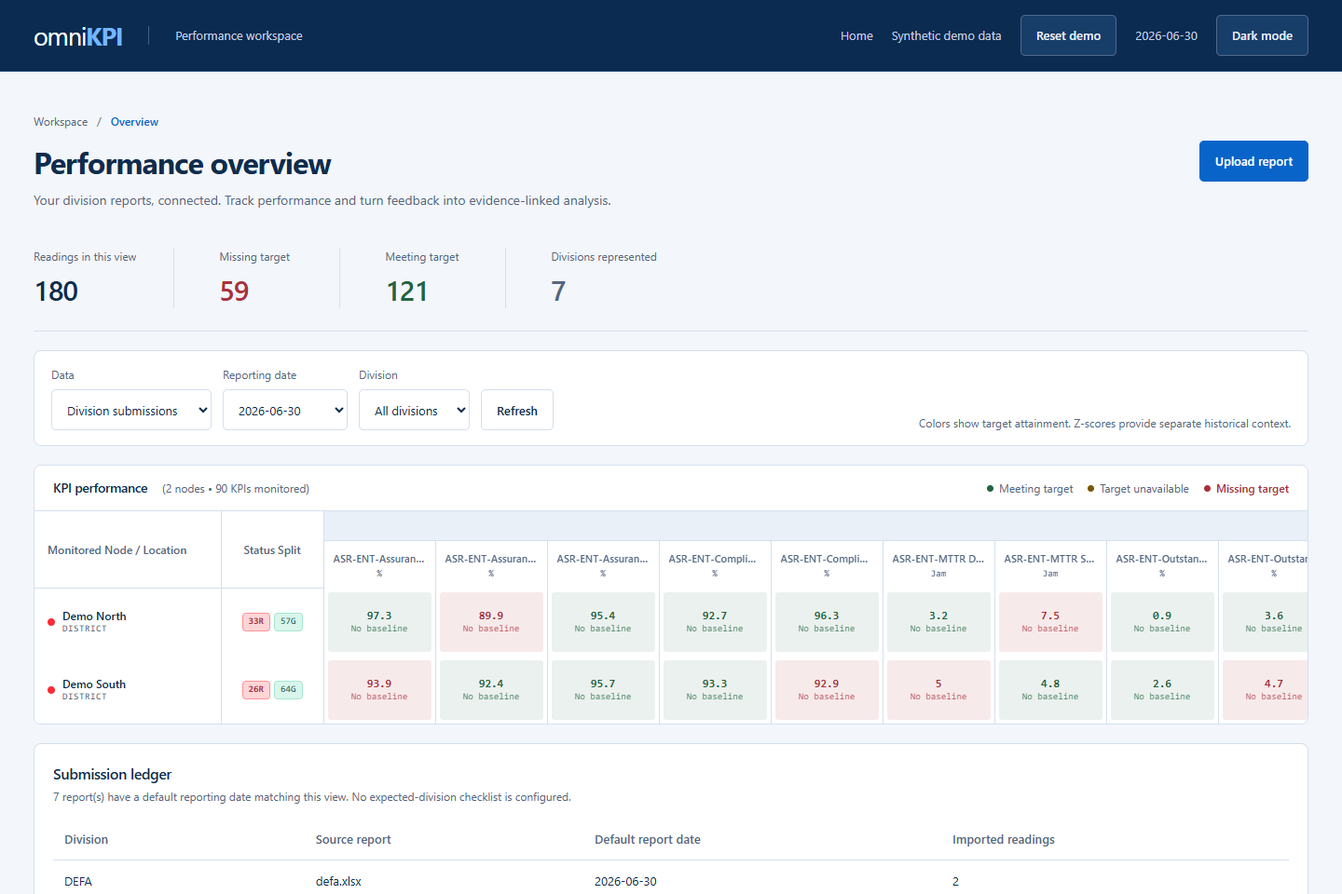
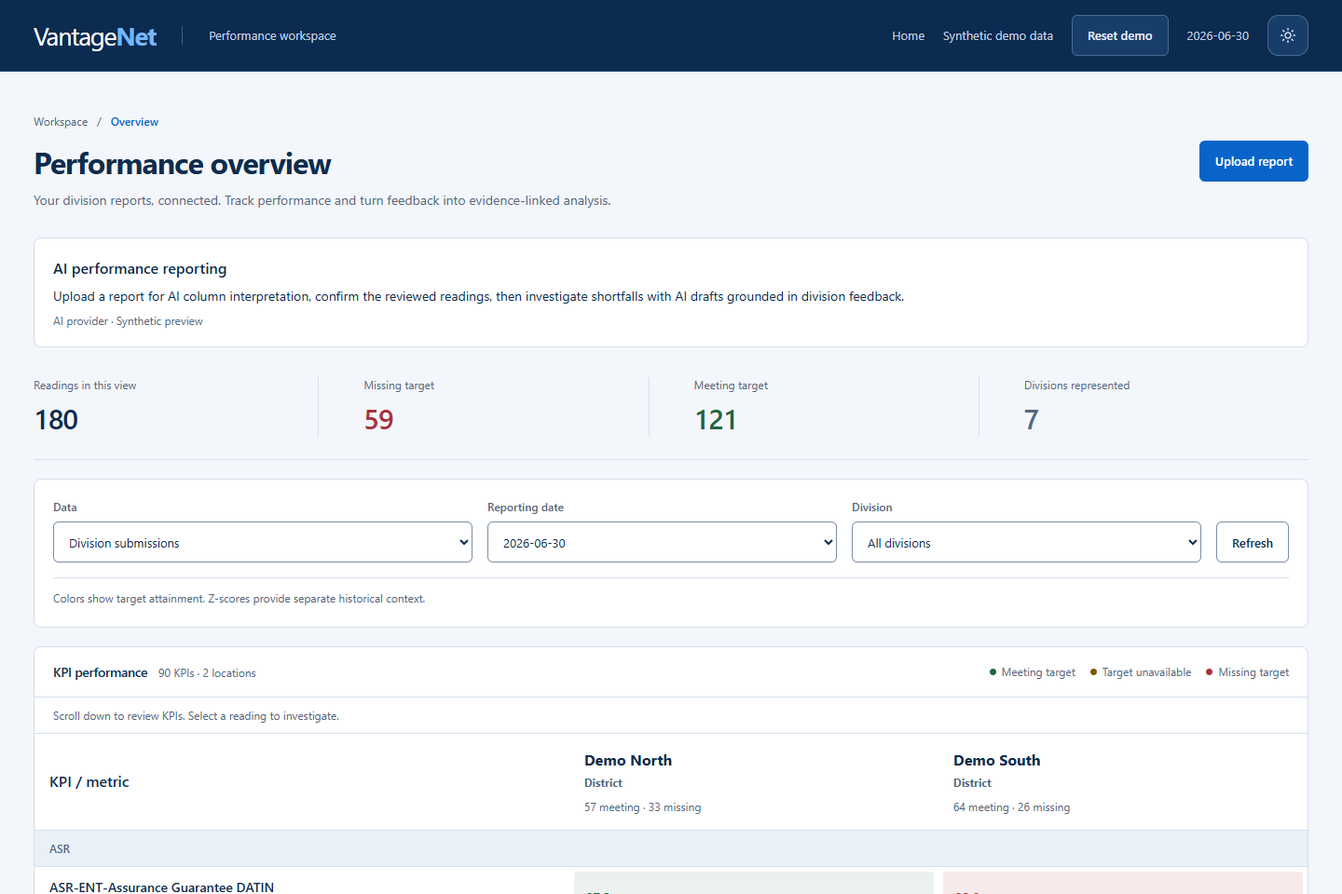
Rebrand landing page for VantageNet

diff --git a/frontend/src/Landing.jsx b/frontend/src/Landing.jsx
@@ -12,9 +12,16 @@ import TraceabilitySection from './components/TraceabilitySection';
 import ProblemSection from './components/ProblemSection';
 
 const navigationItems = [
-  { label: 'How it works', description: 'From report to reviewed evidence.', links: [{ label: 'How it works', href: '#how' }] },
-  { label: 'AI', description: 'Assistance where interpretation matters.', links: [{ label: 'AI', href: '#ai' }] },
-  { label: 'Traceability', description: 'Every number knows where it came from.', links: [{ label: 'Traceability', href: '#traceability' }] },
+  { label: 'UiPath workflow', description: 'Follow a division report from intake through analyst approval.', links: [{ label: 'How it works', href: '#how' }] },
+  { label: 'Reporting controls', description: 'See where analysts review data and its sources.', links: [{ label: 'AI and review', href: '#ai' }, { label: 'Traceability', href: '#traceability' }] },
+  { label: 'Technology', description: 'Explore the web workspace and UiPath reporting workflow.', links: [{ label: 'Tech stack', href: '#tech-stack' }] },
+];
+const techStack = [
+  ['Workspace', 'React · Recharts', 'Compare actuals with targets by division and location, and inspect KPI history.'],
+  ['Reporting API', 'Python · FastAPI', 'Process Excel and CSV files, validate mappings, and block duplicate readings.'],
+  ['Data', 'SQLite · SQLAlchemy', 'Store confirmed readings alongside their source rows and division feedback.'],
+  ['AI', 'OpenRouter', 'Suggest column mappings and draft explanations that cite feedback for the selected KPI reading.'],
+  ['Workflow automation', 'UiPath', 'Run report intake, pass approved mappings to the backend for import, retrieve the draft and its evidence, and generate the approved report.'],
 ];
 const glowColors = ['#0864c9', '#75b6ff', '#3888d8'];
 const DEMO_PREPARATION_TIMEOUT = 180_000;
@@ -55,7 +62,7 @@ export default function Landing() {
   return <div className="landing">
     <a className="landing-skip" href="#landing-main">Skip to content</a>
     <header className="landing-card-nav">
-      <CardNav className="omnikp-card-nav" logo={<span className="landing-wordmark">Vantage<strong>Net</strong></span>}
+      <CardNav className="vantagenet-card-nav" logo={<span className="landing-wordmark">Vantage<strong>Net</strong></span>}
         logoHref="/" logoAlt="VantageNet home" items={navigationItems}
         cta={{ label: busy ? 'Preparing demo…' : 'Try demo', onClick: startDemo, disabled: busy }}
         ariaLabel="Product" theme="dark" surface="solid" accentColor="#0864c9" maxWidth={1040}
@@ -67,27 +74,66 @@ export default function Landing() {
       <section className="landing-hero">
         <HeroColorBends />
         <svg className="hero-curves" viewBox="0 0 1440 900" fill="none" aria-hidden="true"><path d="M-180 750C200 130 710 1100 1600 80M-180 800C200 180 710 1150 1600 130M-180 850C200 230 710 1200 1600 180" stroke="currentColor" /></svg>
-        <div className="landing-container hero-content"><p className="landing-eyebrow">AI-assisted performance reporting</p><CinematicText as="h1">{'Every division’s report.\nOne traceable KPI view.'}</CinematicText><CinematicText as="p" className="hero-description" delay={0.4} stagger={0.025} blur={8}>VantageNet consolidates scattered Excel reports, flags what’s missing target, and helps analysts draft evidence-linked explanations.</CinematicText><div className="landing-actions"><LiquidButton className="landing-primary hero-liquid-primary" size="xxl" disabled={busy} aria-busy={busy} onClick={startDemo}>{busy ? 'Preparing demo…' : 'Try demo'}</LiquidButton><LiquidButton className="landing-secondary hero-liquid-secondary" size="xxl" asChild><a href="#how">See how it works</a></LiquidButton></div><p className="demo-note">Explore the prototype with synthetic data. No upload needed.</p>
-        <div className="product-frame"><div className="frame-bar"><span>VantageNet / Performance workspace</span><span>Synthetic demo data</span></div>{hasScreenshot ? <img src="/landing/workspace.png" width="1440" height="960" fetchPriority="high" alt="Populated VantageNet workspace showing synthetic divisional KPI readings" onError={() => setHasScreenshot(false)} /> : <div className="screenshot-placeholder"><strong>Workspace screenshot placeholder</strong><p>The interactive demo contains 90 KPIs, 180 readings and seven submitting units.</p><span>Open the demo to explore the working product.</span></div>}</div></div>
+        <div className="landing-container hero-content">
+          <p className="landing-eyebrow">Telecom performance reporting</p>
+          <CinematicText as="h1">{'Turn divisional reports into\none view of network performance'}</CinematicText>
+          <CinematicText as="p" className="hero-description" delay={0.4} stagger={0.025} blur={8}>VantageNet helps telecom teams consolidate divisional reports and trace missed KPI targets to their source. UiPath runs the reporting stages, from file intake to the final report. Analysts approve both the mapping and the narrative.</CinematicText>
+          <div className="landing-actions">
+            <LiquidButton className="landing-primary hero-liquid-primary" size="xxl" disabled={busy} aria-busy={busy} onClick={startDemo}>{busy ? 'Preparing demo…' : 'Try demo'}</LiquidButton>
+            <LiquidButton className="landing-secondary hero-liquid-secondary" size="xxl" asChild><a href="#how">See the UiPath workflow</a></LiquidButton>
+          </div>
+          <p className="demo-note">The web demo includes seven synthetic division reports. No upload needed.</p>
+          <div className="product-frame">
+            <div className="frame-bar"><span>VantageNet / Performance workspace</span><span>Synthetic demo data</span></div>
+            {hasScreenshot ? <img src="/landing/workspace.png" width="1440" height="960" fetchPriority="high" alt="VantageNet workspace showing KPI target status and filters for synthetic division reports" onError={() => setHasScreenshot(false)} /> : <div className="screenshot-placeholder"><p>The workspace preview is unavailable. Open the demo to explore the KPI view and source reports.</p></div>}
+          </div>
+        </div>
       </section>
       <ProblemSection />
-      <section id="how" className="landing-section landing-white" aria-labelledby="how-heading"><div className="landing-container reveal"><h2 id="how-heading">From report to reviewed evidence.</h2><WorkflowSteps /></div></section>
+      <section id="how" className="landing-section landing-white" aria-labelledby="how-heading">
+        <div className="landing-container reveal">
+          <h2 id="how-heading">How UiPath runs the reporting workflow</h2>
+          <p>In the prototype, the operator runs these as separate attended steps.</p>
+          <WorkflowSteps />
+        </div>
+      </section>
       <section id="ai" className="landing-section landing-container reveal" aria-labelledby="ai-heading">
-        <h2 id="ai-heading">Assistance where interpretation matters.</h2>
+        <h2 id="ai-heading">AI suggests. Analysts review.</h2>
         <div className="ai-columns">
           <BorderGlow className="ai-glow" colors={glowColors} glowColor="212 80 70" backgroundColor="var(--surface)" borderRadius={16} glowRadius={12} glowIntensity={0.65} fillOpacity={0.08} animated={false}>
-            <article><h3>Schema interpretation</h3><span className="component-index">Understand the report</span><p>Reads headers plus up to 3 sample values per column and proposes what each column means: KPI, actual, target, location, unit, direction and feedback.</p></article>
+            <article><h3>Map report columns</h3><p>AI uses headers and up to three sample values per column to suggest which fields contain the KPI, actual, target, location, unit and feedback. Analysts can correct the mapping before import.</p></article>
           </BorderGlow>
           <BorderGlow className="ai-glow" colors={glowColors} glowColor="212 80 70" backgroundColor="var(--surface)" borderRadius={16} glowRadius={12} glowIntensity={0.65} fillOpacity={0.08} animated={false}>
-            <article><h3>Evidence-linked RCA</h3><span className="component-index">Explain the shortfall</span><p>Turns feedback attached to a specific KPI, location and date into an attributed explanation with references. Returns “Insufficient evidence” when no feedback exists.</p></article>
+            <article><h3>Draft an explanation</h3><p>AI uses division feedback for a specific KPI, location and date to draft a root-cause analysis with citations. If feedback is missing, the reading waits for evidence.</p></article>
           </BorderGlow>
         </div>
-        <p className="automation-note">Everything else (threshold checks, validation, duplicate rejection, Z-score anomaly baseline) is deterministic automation, not AI.</p>
+        <p className="automation-note">The backend applies fixed rules for validation, duplicate detection, target status and historical Z-scores.</p>
       </section>
       <TraceabilitySection />
-      <section className="landing-section landing-container human-block reveal" aria-labelledby="human-heading"><h2 id="human-heading">Nothing enters the central dataset without analyst confirmation.</h2><p>Review mappings and validation results before importing your reports. Root-cause analysis drafts remain attributed explanations for analyst review. Explore the workflow with pre-reviewed synthetic reports.</p></section>
-      <section className="landing-final" aria-labelledby="demo-heading"><div className="landing-container"><h2 id="demo-heading">See it with real structure,<br />synthetic data.</h2><p>Seven reconstructed division reports. One shared performance view.</p>{cta}<p className="final-reassurance">No upload needed.</p></div></section>
+      <section className="landing-section landing-container human-block reveal" aria-labelledby="human-heading">
+        <h2 id="human-heading">Analysts can stop an import or a report</h2>
+        <p>Rejecting the mapping stops the import. Rejecting the narrative stops report generation for that revision. The analyst can correct the mapping or edit the draft before approving it.</p>
+      </section>
+      <section id="tech-stack" className="landing-section landing-white" aria-labelledby="tech-stack-heading">
+        <div className="landing-container stack-layout">
+          <div>
+            <h2 id="tech-stack-heading">VantageNet’s tech stack</h2>
+            <p>UiPath runs the reporting stages, the backend validates and stores the readings, and the web workspace lets analysts compare results and trace their sources.</p>
+            <a className="stack-source" href="https://github.com/Llovind/OmniKP/tree/6b3769e/deliverables/Gate-3D.1-VantageNet">View the UiPath workflow and sample report</a>
+            <p>The sample shows one synthetic ED reading, from confirmed data through narrative approval to PowerPoint.</p>
+          </div>
+          <dl className="stack-list">
+            {techStack.map(([layer, tools, role]) => <div key={layer} className="stack-row">
+              <dt>{layer}</dt><dd><strong>{tools}</strong><p>{role}</p></dd>
+            </div>)}
+          </dl>
+        </div>
+      </section>
+      <section className="landing-final" aria-labelledby="demo-heading"><div className="landing-container"><h2 id="demo-heading">Explore the reporting workspace</h2><p>Compare KPI targets across divisions, then follow a missed target back to its source.</p>{cta}<p className="final-reassurance">Synthetic data. No upload needed.</p></div></section>
     </main>
-    <footer className="landing-footer landing-container"><img src="/brand/omnikpi.png" width="515" height="460" alt="VantageNet" /><p>Built for ITASE 7.0 by Team Mejeuh Euy<br /><span>AI-assisted performance reporting prototype</span></p><a href="https://github.com/Llovind/OmniKP">View on GitHub</a><a href="/evaluation">Mapping evaluation</a><a href="/app">Open workspace</a></footer>
+    <footer className="landing-footer landing-container">
+      <p><strong className="footer-wordmark">Vantage<span>Net</span></strong><br /><span>Telecom performance reporting by Team Mejeuh Euy</span></p>
+      <a href="https://github.com/Llovind/OmniKP">View on GitHub</a><a href="/evaluation">Mapping evaluation</a><a href="/app">Open workspace</a>
+    </footer>
   </div>;
 }

diff --git a/frontend/src/landing.css b/frontend/src/landing.css
@@ -23,7 +23,17 @@
 .ai-columns { display:flex; gap:24px; margin-top:40px; }.ai-columns article { flex:1; border:1px solid var(--line); border-radius:16px; padding:32px; background:var(--surface); box-shadow:0 8px 30px #0b2a4f08; }.component-index { font-size:13px; color:var(--accent); }.automation-note { font-size:14px; max-width:90ch!important; margin-top:24px; }
 .trace-layout { display:flex; align-items:center; gap:80px; }.trace-layout>div { flex:1; }.trace-card { flex:1; min-width:0; padding:30px; margin:0; border-radius:16px; border:1px solid var(--line); background:var(--page); }.trace-card figcaption { font-size:12px; color:var(--muted); }.trace-value { font-size:44px; color:var(--red); font-weight:600; }.trace-value span { font-size:14px; color:var(--muted); margin-left:12px; font-weight:400; }.trace-card dl { font-size:14px; }.trace-card dl div { display:flex; justify-content:space-between; gap:12px; padding:10px 0; border-top:1px solid var(--line); }.trace-card dt { color:var(--muted); }.trace-card dd { margin:0; text-align:right; }
 .human-block { max-width:850px; text-align:center; }.human-block p { margin-inline:auto; }.landing-final { background:var(--landing-navy); color:#fff; text-align:center; padding:80px 0; }.landing-final p { color:#c2d1e5; margin-bottom:28px; }
-.landing-footer { display:flex; align-items:center; gap:28px; padding-block:30px; font-size:13px; }.landing-footer img { width:115px; height:auto; border-radius:6px; }.landing-footer p { flex:1; }.landing-footer span { color:var(--muted); }.landing-footer a { color:var(--accent); }
+.landing-footer { display:flex; align-items:center; gap:28px; padding-block:30px; font-size:13px; }.landing-footer p { flex:1; }.landing-footer span { color:var(--muted); }.landing-footer a { color:var(--accent); }
+.footer-wordmark { color:var(--ink); font-size:24px; letter-spacing:-1px; }.footer-wordmark span { color:var(--accent); }
+.stack-layout { display:grid; grid-template-columns:minmax(0,1fr) minmax(0,1.45fr); gap:clamp(32px,6vw,80px); }
+.stack-layout h2 { margin-bottom:16px; }.stack-layout>div>p { margin:0; text-wrap:pretty; }
+.stack-source { display:inline-flex; align-items:center; min-height:44px; margin-top:16px; color:var(--accent); font-weight:600; text-underline-offset:4px; }
+.landing .stack-source { text-decoration:underline; }
+.stack-list { margin:0; border-top:1px solid var(--line); }
+.stack-row { display:grid; grid-template-columns:minmax(100px,.65fr) minmax(0,1.65fr); gap:16px; padding:16px 0; border-bottom:1px solid var(--line); }
+.stack-row dt { color:var(--muted); font-size:14px; }.stack-row dd { margin:0; }.stack-row p { margin:2px 0 0; font-size:14px; text-wrap:pretty; }
+@media(max-width:740px) { .stack-layout { grid-template-columns:minmax(0,1fr); gap:24px; } }
+@media(max-width:440px) { .stack-row { grid-template-columns:minmax(0,1fr); gap:2px; } }
 .landing-error { position:fixed; z-index:10; bottom:20px; left:50%; transform:translateX(-50%); width:min(560px,90%); background:var(--surface); color:var(--ink); border:1px solid var(--line); border-radius:12px; padding:20px; box-shadow:0 8px 30px #0003; }.landing-error button { text-decoration:underline; margin-left:10px; min-height:44px; }
 .landing-skip { position:absolute; top:-100px; z-index:20; padding:12px; background:white; color:#0b2b50; }.landing-skip:focus { top:0; }
 @media(max-width:800px) { .landing-nav nav { gap:16px; }.trace-layout { gap:30px; }.landing-steps { flex-wrap:wrap; }.landing-steps li { flex-basis:40%; }.landing-footer { flex-wrap:wrap; }.landing-footer p { flex-basis:60%; } }
@@ -34,22 +44,22 @@
 .landing-menu { display:none; }
 .landing-skip { z-index:60; }
 .landing-card-nav { position:fixed; z-index:40; top:24px; left:50%; transform:translateX(-50%); width:min(1040px,calc(100% - 32px)); }
-.omnikp-card-nav { --cn-panel:#0b2b50!important; --cn-solid:#0b2b50!important; --cn-text:#e5eefb!important; --cn-muted:#c0d0e5!important; --cn-tile:linear-gradient(150deg,#173e69,#0e3157)!important; --cn-ring:#b8d8ff!important; }
-.omnikp-card-nav .card-nav__panel { max-height:calc(100dvh - 48px); overflow:hidden; }
-.omnikp-card-nav .card-nav__content { max-height:calc(100dvh - 108px); overflow-y:auto; scrollbar-width:none; }
-.omnikp-card-nav .card-nav__content::-webkit-scrollbar { display:none; }
+.vantagenet-card-nav { --cn-panel:#0b2b50!important; --cn-solid:#0b2b50!important; --cn-text:#e5eefb!important; --cn-muted:#c0d0e5!important; --cn-tile:linear-gradient(150deg,#173e69,#0e3157)!important; --cn-ring:#b8d8ff!important; }
+.vantagenet-card-nav .card-nav__panel { max-height:calc(100dvh - 48px); overflow:hidden; }
+.vantagenet-card-nav .card-nav__content { max-height:calc(100dvh - 108px); overflow-y:auto; scrollbar-width:none; }
+.vantagenet-card-nav .card-nav__content::-webkit-scrollbar { display:none; }
 .landing-section[id] { scroll-margin-top:108px; }
-.omnikp-card-nav .card-nav__logo { min-height:44px; margin:0; }
-.omnikp-card-nav .landing-wordmark { margin:0; }
-.omnikp-card-nav .card-nav__link { min-height:44px; opacity:1; }
-.landing .omnikp-card-nav[data-narrow] .card-nav__bar { grid-template-columns:1fr auto 1fr; }
-.landing .omnikp-card-nav[data-narrow] .card-nav__menu { grid-column:1; justify-self:start; padding-inline:10px; }
-.landing .omnikp-card-nav[data-narrow] .card-nav__logo { grid-column:2; justify-self:center; padding:0; }
+.vantagenet-card-nav .card-nav__logo { min-height:44px; margin:0; }
+.vantagenet-card-nav .landing-wordmark { margin:0; }
+.vantagenet-card-nav .card-nav__link { min-height:44px; opacity:1; }
+.landing .vantagenet-card-nav[data-narrow] .card-nav__bar { grid-template-columns:1fr auto 1fr; }
+.landing .vantagenet-card-nav[data-narrow] .card-nav__menu { grid-column:1; justify-self:start; padding-inline:10px; }
+.landing .vantagenet-card-nav[data-narrow] .card-nav__logo { grid-column:2; justify-self:center; padding:0; }
 .ai-columns>.ai-glow { flex:1; min-width:0; background:var(--surface); border-color:var(--line); box-shadow:0 8px 30px #0b2a4f08; }
 .ai-columns .border-glow-inner { overflow:visible; }
 .ai-columns .ai-glow article { height:100%; border:0; border-radius:16px; background:transparent; box-shadow:none; }
 .ai-glow::before,.ai-glow::after,.ai-glow>.edge-light { pointer-events:none; }
-@media(max-width:560px) { .landing-card-nav { top:16px; }.omnikp-card-nav .card-nav__panel { max-height:calc(100dvh - 32px); } }
+@media(max-width:560px) { .landing-card-nav { top:16px; }.vantagenet-card-nav .card-nav__panel { max-height:calc(100dvh - 32px); } }
 @media(prefers-reduced-motion:reduce) { .ai-glow::before,.ai-glow::after,.ai-glow>.edge-light { display:none; } }
 .hero-color-background { position:absolute; inset:72px 0 -72px; opacity:.35; pointer-events:none; mask-image:linear-gradient(#000,#000 55%,transparent 85%); }
 .landing-section :is(.problem-columns p,.landing-steps p,.trace-layout>div>p) { text-wrap:pretty; }
@@ -84,7 +94,7 @@
 .workflow-step__rule { position:absolute; top:-1px; left:0; width:100%; height:2px; background:var(--accent); transform-origin:left center; pointer-events:none; }
 @media(prefers-reduced-motion:reduce) { .workflow-step { transform:none!important; }.workflow-step__rule { transform:none!important; } }
 @media(max-width:560px) {
-  .omnikp-card-nav .landing-wordmark { font-size:22px; margin:0; }
+  .vantagenet-card-nav .landing-wordmark { font-size:22px; margin:0; }
   .landing-hero { padding-top:185px; }
 }
 

diff --git a/frontend/src/components/ProblemSection.tsx b/frontend/src/components/ProblemSection.tsx
@@ -13,9 +13,9 @@ function observe(query: string, callback: () => void) {
 const subscribeReduced = (callback: () => void) => observe(reducedQuery, callback);
 const subscribeHover = (callback: () => void) => observe(hoverQuery, callback);
 const problems = [
-  { title: 'Reports live in different files', body: 'Each division reports separately, leaving analysts to connect the pieces.', Icon: Files },
-  { title: 'Consolidating takes manual effort', body: 'Column meanings, units and targets need to line up before results can be compared.', Icon: Combine },
-  { title: 'Explanations get lost', body: 'The reason behind a missed target can become detached from the reading.', Icon: MessageSquareOff },
+  { title: 'Reports arrive separately', body: 'Analysts collect spreadsheets from several divisions for the same reporting period.', Icon: Files },
+  { title: 'Columns mean different things', body: 'Analysts check which values are actuals and targets, and confirm the units before comparing results.', Icon: Combine },
+  { title: 'Feedback lives elsewhere', body: 'Division explanations can get separated from the KPI, location and date they explain.', Icon: MessageSquareOff },
 ];
 
 function ProblemPanel({ title, body, Icon, index, reduced, canHover }: {
@@ -41,7 +41,7 @@ export default function ProblemSection() {
   return <section className="landing-section landing-container problem-section" aria-labelledby="problem-heading">
     <motion.h2 ref={heading} id="problem-heading" data-problem-motion="" initial={false}
       animate={{ y: inView || reduced ? 0 : 6 }} transition={{ duration: reduced ? 0 : .3, ease: [.16, 1, .3, 1] }}>
-      <span>The data exists.</span><br />The shared view takes work.
+      <span>Why telecom reporting</span><br />takes manual work
     </motion.h2>
     <div className="problem-columns">{problems.map((problem, index) => <ProblemPanel key={problem.title} {...problem} index={index} reduced={reduced} canHover={canHover} />)}</div>
   </section>;

diff --git a/frontend/src/components/WorkflowSteps.tsx b/frontend/src/components/WorkflowSteps.tsx
@@ -1,13 +1,13 @@
 import { useRef, useSyncExternalStore } from 'react';
 import { motion, useInView } from 'motion/react';
-import { FileUp, ListChecks, Layers3, Search, type LucideIcon } from 'lucide-react';
+import { FileUp, ListChecks, FileCheck, Search, type LucideIcon } from 'lucide-react';
 import './WorkflowSteps.css';
 
 const steps = [
-  { title: 'Submit', body: 'Choose the submitting unit, reporting date and Excel or CSV file.', Icon: FileUp },
-  { title: 'Review mapping', body: 'AI proposes column meanings. The analyst reviews and corrects them.', Icon: ListChecks },
-  { title: 'Consolidate', body: 'Validated readings enter a shared database, linked to the source file, row and submitting unit.', Icon: Layers3 },
-  { title: 'Investigate', body: 'Attach division feedback to a KPI, location and date, then request a root-cause analysis draft.', Icon: Search },
+  { title: 'Collect a report', body: 'UiPath submits a division file with its reporting date and requests an AI mapping preview.', Icon: FileUp },
+  { title: 'Review and import', body: 'The analyst reviews the mapping. UiPath confirms the import after backend validation and analyst approval.', Icon: ListChecks },
+  { title: 'Investigate a shortfall', body: 'UiPath retrieves the selected reading, its source and a draft based on division feedback.', Icon: Search },
+  { title: 'Approve the report', body: 'The analyst reviews the narrative. UiPath generates the PowerPoint report after approval.', Icon: FileCheck },
 ];
 const preference = '(prefers-reduced-motion: reduce)';
 function subscribe(callback: () => void) {

diff --git a/frontend/src/index.css b/frontend/src/index.css
@@ -90,8 +90,8 @@ button:active { filter:brightness(.94); }
 .empty-workspace { display:flex; align-items:center; gap:40px; padding:48px; text-align:left; }
 .empty-workspace h2 { font-size:24px; font-weight:600; letter-spacing:-.5px; }
 .empty-workspace p { max-width:520px; line-height:1.7; }
-.brand-art { width:184px; height:auto; flex-shrink:0; border-radius:8px; }
-@media(max-width:760px) { .empty-workspace { padding:28px; gap:24px; flex-direction:column; align-items:flex-start; }.brand-art { width:130px; }.summary-strip>div { padding-right:12px; border:0; }.page-heading h1 { font-size:28px; } }
+.brand-art { width:64px; height:auto; flex-shrink:0; }
+@media(max-width:760px) { .empty-workspace { padding:28px; gap:24px; flex-direction:column; align-items:flex-start; }.summary-strip>div { padding-right:12px; border:0; }.page-heading h1 { font-size:28px; } }
 @media(max-width:640px) { .workspace-header { padding:14px 16px; gap:12px; flex-wrap:wrap; }.workspace-label { display:none; }.header-actions { gap:10px; }.header-actions time { display:none; }.workspace-main { padding:22px 16px; }.summary-strip { gap:20px; }.summary-strip>div { flex:1 0 40%; }.filter-bar>label { flex:1 1 140px; } th.sticky,td.sticky { position:static; } }
 @media(prefers-reduced-motion:reduce) { *,*::before,*::after { animation:none!important; transition:none!important; scroll-behavior:auto!important; } }
 

diff --git a/frontend/src/components/TraceabilitySection.tsx b/frontend/src/components/TraceabilitySection.tsx
@@ -31,7 +31,7 @@ export default function TraceabilitySection() {
   return <section ref={ref} id="traceability" className="landing-section landing-white" aria-labelledby="trace-heading" data-revealed={revealed}>
     <div className="landing-container trace-layout">
       <div className="trace-copy">
-        <motion.h2 id="trace-heading" {...entrance(0)}>Every number knows <span>where it came from.</span></motion.h2>
+        <motion.h2 id="trace-heading" {...entrance(0)}>Trace a KPI reading <span>to its source row.</span></motion.h2>
         <motion.p {...entrance(.06)}>Follow each reading to its report and responsible unit. Keep division feedback linked to the KPI, location and reporting date.</motion.p>
         <motion.a {...entrance(.12)} className="validation-download" href="/demo/divisions/validation-pack.zip" download>
           <Download size={20} strokeWidth={1.75} aria-hidden="true" />

diff --git a/frontend/src/App.jsx b/frontend/src/App.jsx
@@ -131,7 +131,7 @@ export default function App() {
         <p className="filter-help">Colors show target attainment. Z-scores provide separate historical context.</p>
       </div>
       {!loading && !error && !stats.total ? <section className="glass empty-workspace">
-        <img className="brand-art" src="/brand/omnikpi.png" width="515" height="460" alt="VantageNet: telco KPI performance workspace" />
+        <img className="brand-art" src="/favicon.svg" width="64" height="64" alt="" />
         <div className="space-y-4">
         <h2 className="display-font text-xl">Bring your reports into focus.</h2>
         <p className="text-sm text-slate-400">Upload a division report to build your shared performance view. Review the column mappings before any readings are added.</p>

diff --git a/frontend/index.html b/frontend/index.html
@@ -3,8 +3,9 @@
   <head>
     <meta charset="UTF-8" />
     <meta name="viewport" content="width=device-width, initial-scale=1.0" />
-    <meta name="description" content="VantageNet brings division reports, performance monitoring, and evidence-linked analysis into one workspace." />
-    <title>VantageNet | Performance workspace</title>
+    <meta name="description" content="VantageNet helps telecom teams report on KPIs with UiPath workflow automation, traceable data, and analyst approval before import and reporting." />
+    <link rel="icon" type="image/svg+xml" href="/favicon.svg" />
+    <title>VantageNet | Telecom KPI reporting</title>
   </head>
   <body>
     <div id="root"></div>
